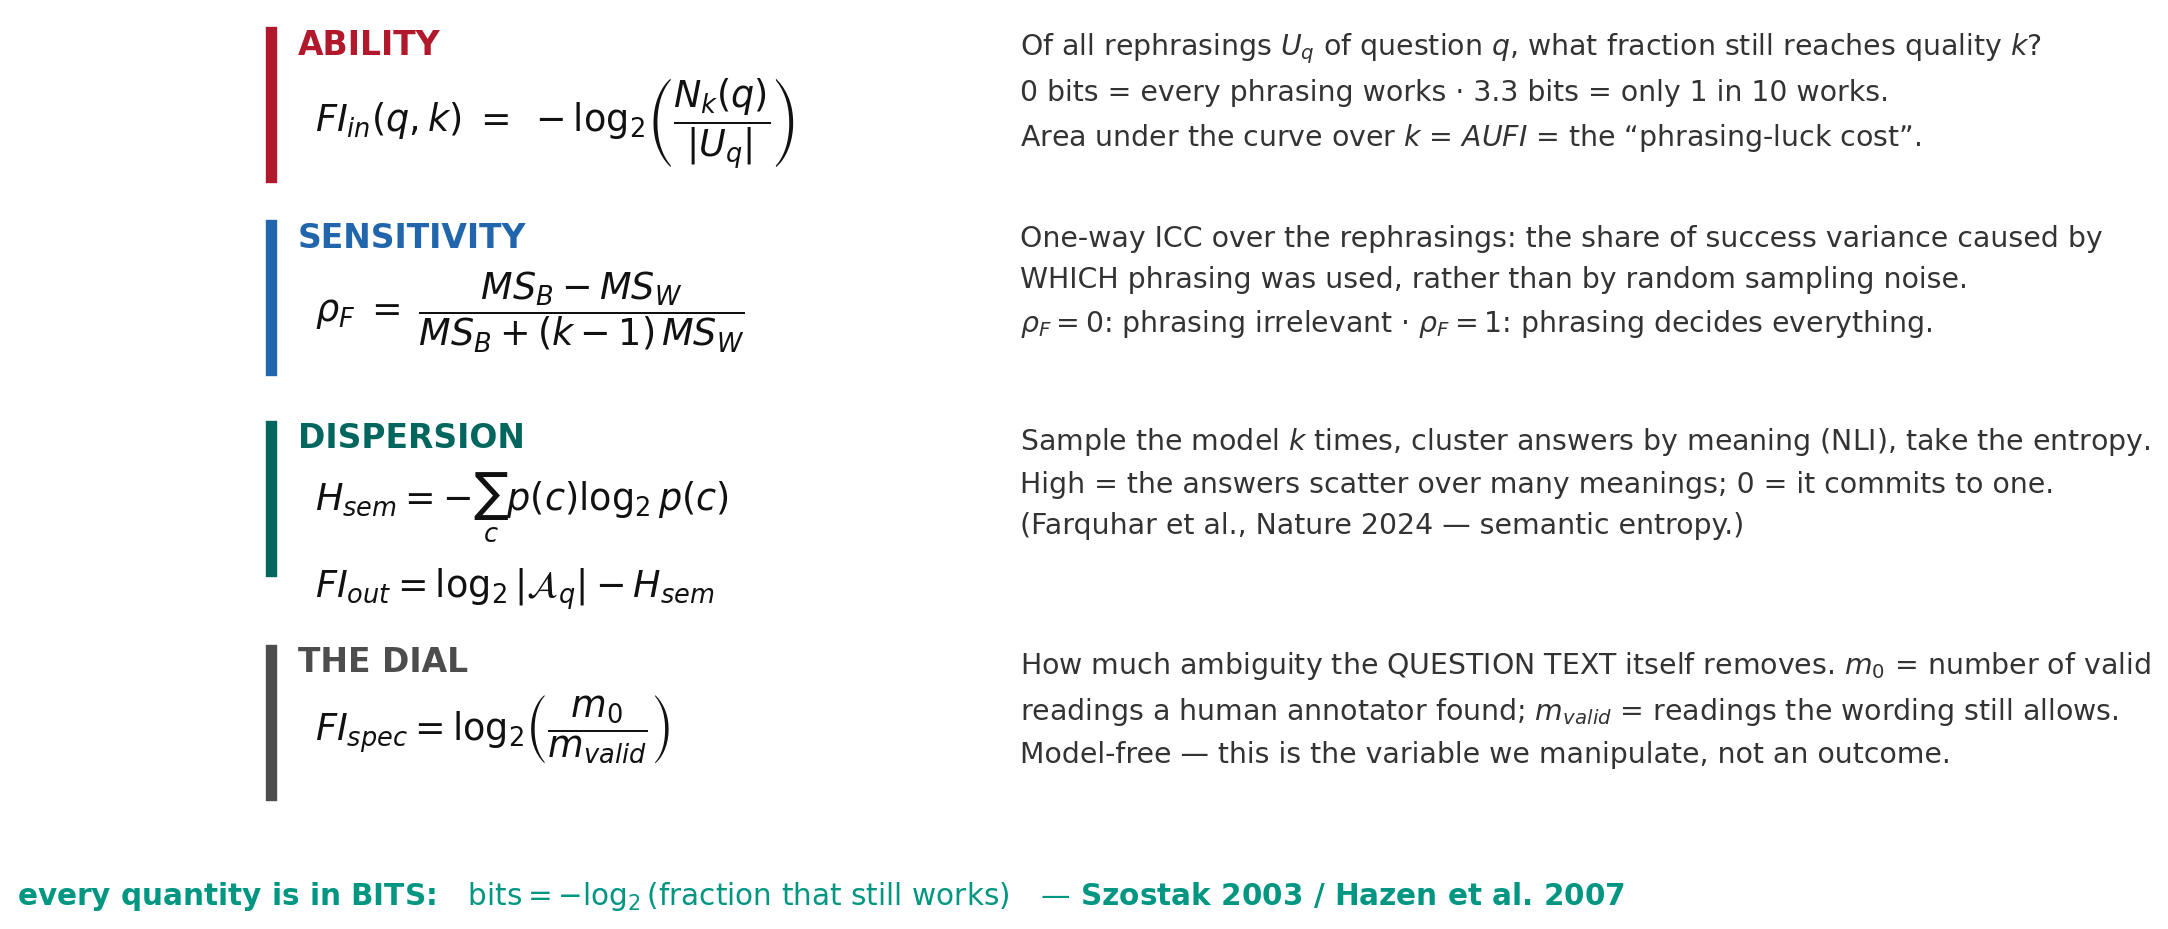
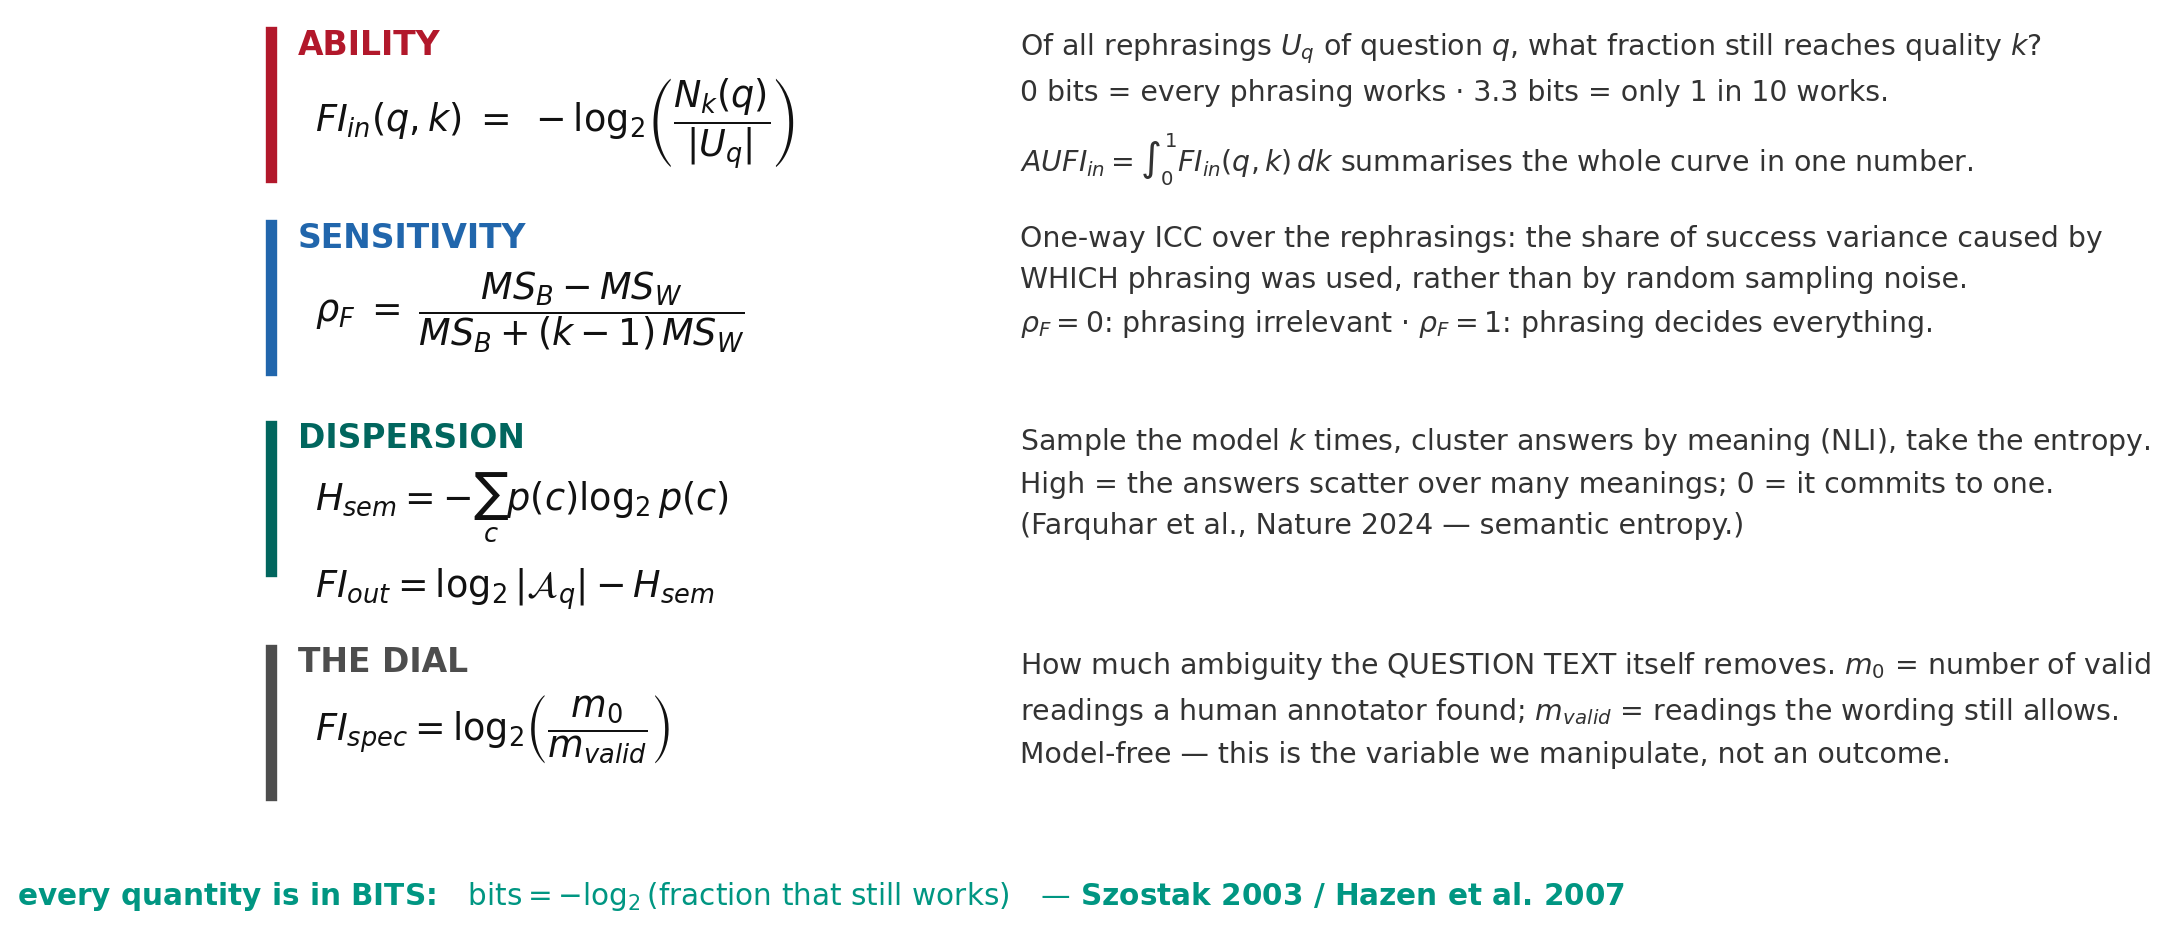
[deck] Slides 26/27: replace informal labels with the actual quantities
Panel titles are now the metrics themselves — F-bar (graded accuracy, with
'mean over rephrasings of P(correct|x)'), AUFI_in (bits, with the integral),
H_sem (bits) — instead of 'phrasing-luck cost' / 'answer scatter'. Subtitles
state the design (paired within question, identical evidence and gold,
FI_spec 0->1.58 bits, n=149x3, N=10, k=10) and the takeaways quote effect
sizes with the test (Wilcoxon signed-rank p<=5e-9; interaction deltas at
0/50/100% evidence). The definitions slide defines AUFI_in by its integral
rather than by nickname.

Changed region(s): [[0.4636, 0.1249, 0.8962, 0.1873]]

diff --git a/prompt_sensitivity/scripts/make_supervisor_figures.py b/prompt_sensitivity/scripts/make_supervisor_figures.py
@@ -45,9 +45,12 @@ def fig_headline(root, out):
     d = _v3(root)
     fig, axes = plt.subplots(1, 3, figsize=(13.5, 4.4))
     panels = [
-        ("f_graded_mean", "Accuracy", "higher = better", False),
-        ("aufi_in_graded", "Phrasing-luck cost (bits)", "lower = better", True),
-        ("h_sem_mean", "Answer scatter (bits)", "lower = better", True),
+        ("f_graded_mean", r"$\bar{F}$  (graded accuracy)",
+         r"mean over rephrasings of $P(\mathrm{correct}\,|\,x)$ · higher = better", False),
+        ("aufi_in_graded", r"$AUFI_{in}$  (bits)",
+         r"$\int_0^1 FI_{in}(q,k)\,dk$ · lower = better", True),
+        ("h_sem_mean", r"$H_{sem}$  (bits)",
+         "semantic entropy of the answers · lower = better", True),
     ]
     x = np.arange(3)
     for ax, (col, title, sub, lower_better) in zip(axes, panels):
@@ -69,8 +72,8 @@ def fig_headline(root, out):
     handles, lbls = axes[0].get_legend_handles_labels()
     fig.legend(handles, lbls, loc="lower center", bbox_to_anchor=(0.5, -0.07),
                ncol=2, fontsize=14)
-    fig.suptitle("Making a question specific: same 149 questions, 3 models, all effects p ≤ 5e-9",
-                 fontsize=16, y=1.03)
+    fig.suptitle(r"$FI_{spec}$: 0 $\rightarrow$ 1.58 bits   ·   149 questions, 3 models,"
+                 " N=10 rephrasings, k=10 samples", fontsize=16, y=1.03)
     fig.savefig(out, dpi=160)
     plt.close(fig)
 
@@ -90,13 +93,13 @@ def fig_dial(root, out):
 
     fig, axes = plt.subplots(1, 2, figsize=(12.5, 4.6))
     for ax, data, ttl, ylab in [
-        (axes[0], acc, "Accuracy", "accuracy"),
-        (axes[1], fi, "Phrasing-luck cost", "bits (lower = better)"),
+        (axes[0], acc, r"$\bar{F}$  (graded accuracy)", r"$\bar{F}$"),
+        (axes[1], fi, r"$AUFI_{in}$  (bits)", "bits (lower = better)"),
     ]:
         ax.plot(fr, data[0], "o-", lw=3, ms=11, color=C_L0, label="vague question")
         ax.plot(fr, data[1], "o-", lw=3, ms=11, color=C_L1, label="specific question")
         ax.fill_between(fr, data[0], data[1], alpha=0.13,
-                        color=C_L1 if ttl == "Accuracy" else C_L0)
+                        color=C_L1 if "bar{F}" in ttl else C_L0)
         ax.set_xticks(fr)
         ax.set_xticklabels(["none", "half", "full"])
         ax.set_xlabel("evidence given to the model")
@@ -107,7 +110,7 @@ def fig_dial(root, out):
                      xytext=(0.66, (acc[0][2] + acc[1][2]) / 2), fontsize=13,
                      fontweight="bold", va="center")
     axes[0].legend(loc="upper left", fontsize=12)
-    fig.suptitle("Being specific only pays off if the model can find the answer  (Qwen, 50 questions)",
+    fig.suptitle("Specificity x evidence interaction  (Qwen-2.5-7B, 50 questions, k=10, N=10)",
                  fontsize=15, y=1.04)
     fig.savefig(out, dpi=160)
     plt.close(fig)

diff --git a/prompt_sensitivity/scripts/make_kit_deck.py b/prompt_sensitivity/scripts/make_kit_deck.py
@@ -164,20 +164,24 @@ def build_section(prs, root):
     s = kit_slide(prs, "The four quantities, defined",
                   "Same ruler throughout — only the space being counted changes.")
     add_figure(s, root, "definitions", top=Inches(1.55), height=Inches(4.85))
-    add_takeaway(s, "“Phrasing-luck cost” = AUFI: the bits of rephrasing luck a question demands.",
+    add_takeaway(s, "AUFI_in summarises the FI_in(k) curve in one number: the bits of rephrasing-rarity a question demands.",
                  top=Inches(6.42))
 
     # 4 · result 1 ---------------------------------------------------------
-    s = kit_slide(prs, "Result 1 — specificity buys robustness",
-                  "Same questions, same evidence; only the wording gains +1.6 bits of specificity (FI_spec).")
+    s = kit_slide(prs, "Result 1 — effect of question specificity",
+                  "Paired within question: identical evidence and gold answer; only the question text changes "
+                  "(FI_spec 0 → 1.58 bits). n = 149 × 3 models.")
     add_figure(s, root, "headline", height=Inches(4.3))
-    add_takeaway(s, "Accuracy ≈ doubles, phrasing-luck cost −0.8 bits, answers converge — all 3 models, p ≤ 5e-9.")
+    add_takeaway(s, "ΔF̄ = +0.22…+0.25 · ΔAUFI_in = −0.79…−0.87 bits · ΔH_sem < 0 — "
+                    "all 3 models, Wilcoxon signed-rank p ≤ 5e-9.")
 
     # 5 · result 2 ---------------------------------------------------------
-    s = kit_slide(prs, "Result 2 — but only when the model can find the answer",
-                  "Same experiment repeated with 0 %, 50 % and 100 % of the supporting evidence snippets.")
+    s = kit_slide(prs, "Result 2 — specificity × evidence interaction",
+                  "Same 50 questions re-run with 0 %, 50 % and 100 % of the retrieved evidence snippets "
+                  "(identical across both specificity levels).")
     add_figure(s, root, "dial", height=Inches(4.3))
-    add_takeaway(s, "Closed-book: specificity buys nothing. The two levers multiply — they do not add.")
+    add_takeaway(s, "ΔF̄ = +0.02 / +0.10 / +0.24 and ΔAUFI_in = −0.05 / −0.31 / −0.83 bits "
+                    "at 0 / 50 / 100 % evidence — the two factors interact.")
 
     # 6 · result 3 ---------------------------------------------------------
     s = kit_slide(prs, "Result 3 — the three measures are genuinely different",

diff --git a/prompt_sensitivity/scripts/make_technical_figures.py b/prompt_sensitivity/scripts/make_technical_figures.py
@@ -34,7 +34,7 @@ def fig_definitions(out):
          r"$FI_{in}(q,k)\;=\;-\log_2\!\left(\dfrac{N_k(q)}{|U_q|}\right)$",
          "Of all rephrasings $U_q$ of question $q$, what fraction still reaches quality $k$?\n"
          "0 bits = every phrasing works · 3.3 bits = only 1 in 10 works.\n"
-         r"Area under the curve over $k$ = $AUFI$ = the “phrasing-luck cost”."),
+         r"$AUFI_{in}=\int_0^1 FI_{in}(q,k)\,dk$ summarises the whole curve in one number."),
         (C_SENS, "SENSITIVITY",
          r"$\rho_F\;=\;\dfrac{MS_B-MS_W}{MS_B+(k-1)\,MS_W}$",
          "One-way ICC over the rephrasings: the share of success variance caused by\n"
